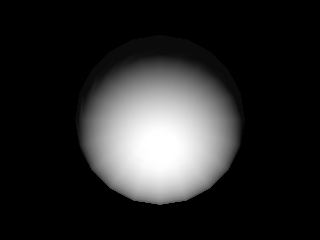
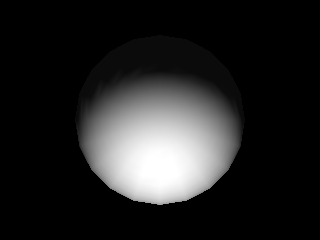
generate image with distant light source

Changed region(s): [[0.2812, 0.2333, 0.75, 0.5833], [0.25, 0.6125, 0.75, 0.875]]

diff --git a/PhotometricStereoCpp/src/constant.h b/PhotometricStereoCpp/src/constant.h
@@ -60,8 +60,8 @@ const int CAPTURE_IDX_OFFSET = 0; // -1 to 2
 #define MODEL_WINDOW_Z_FAR 500.0f
 
 //const std::string SAVE_FILENAME_PREFIX = "image_";
-const std::string SAVE_FILENAME_PREFIX = "ss_";
-//const std::string SAVE_FILENAME_PREFIX = "screenshot_";
+//const std::string SAVE_FILENAME_PREFIX = "ss_";
+const std::string SAVE_FILENAME_PREFIX = "screenshot_";
 
 const std::string WINDOW_LIGHTING = "Lighting";
 const std::string WINDOW_OUTPUT = "Output";

diff --git a/PhotometricStereoCpp/src/sample/ImageGenerator.cpp b/PhotometricStereoCpp/src/sample/ImageGenerator.cpp
@@ -84,7 +84,8 @@ void takeScreenshot(const char* screenshotFile)
 //}
 
 void drawImage(float angle) {
-	GLfloat light_position[] = { cos(angle), sin(angle), -2.0, 0.0 };
+	GLfloat light_position[] = { 10000* cos(angle), 10000* sin(angle), -10001.0, 0.0 };
+	cout << "angles: " << 10000 * cos(angle) << "|" << 10000 * sin(angle) << endl;
 
     glMatrixMode(GL_MODELVIEW);
     // clear the drawing buffer.
